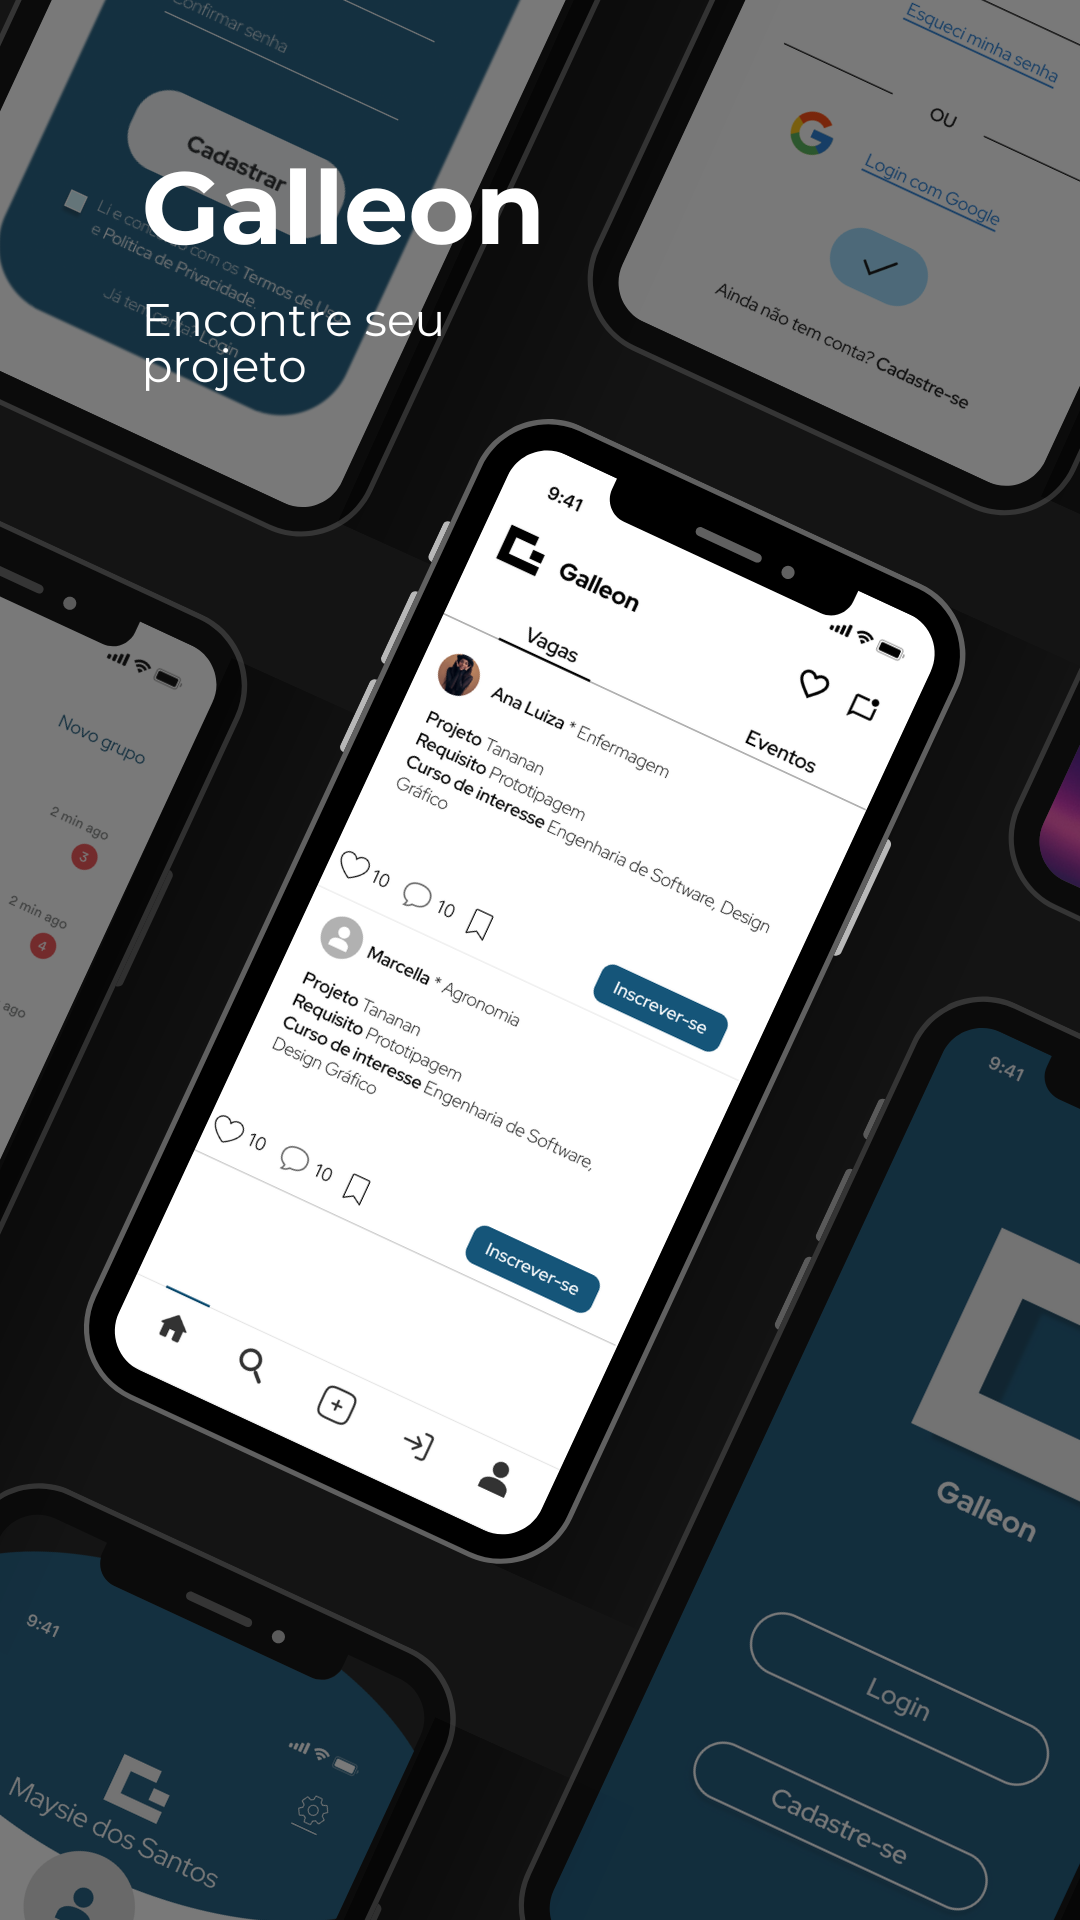
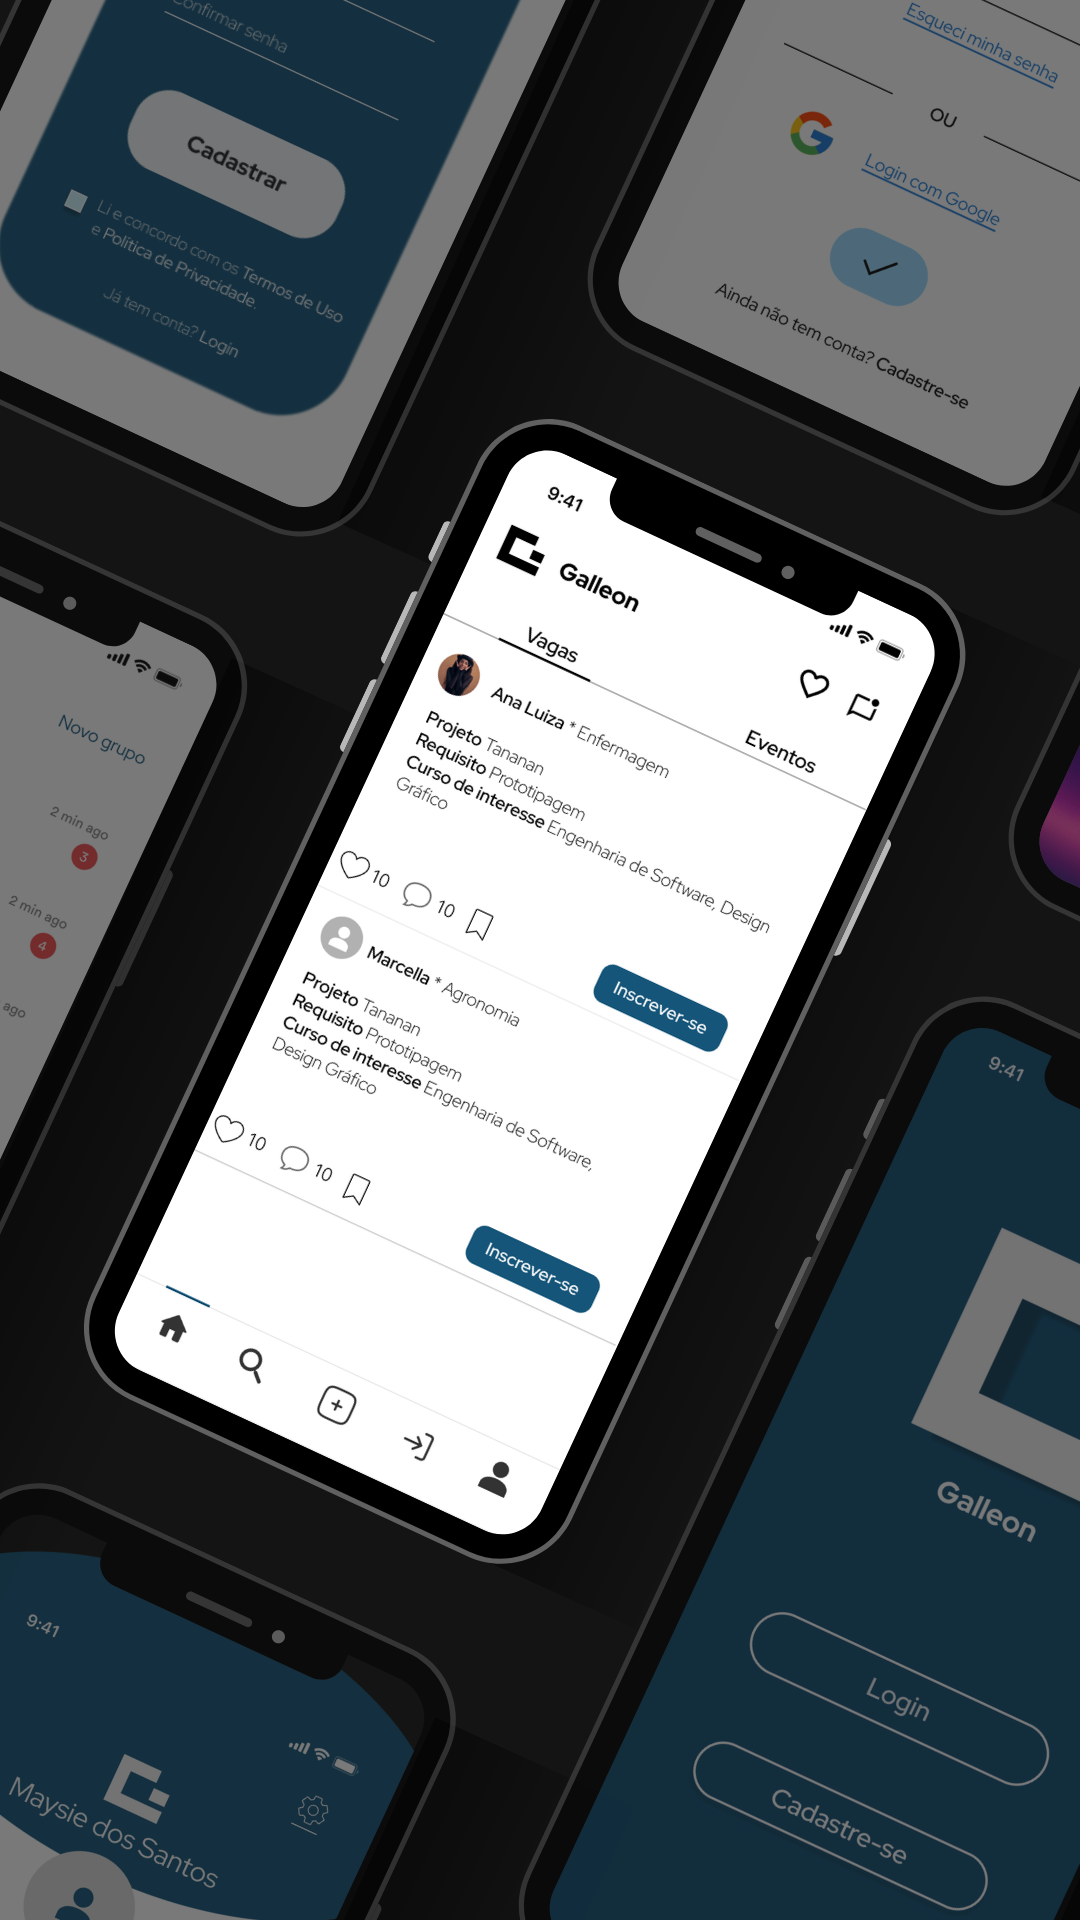
solution-component

Changed region(s): [[0.1222, 0.0625, 0.5194, 0.125], [0.1222, 0.1562, 0.3972, 0.2188]]

diff --git a/src/pages/Home.tsx b/src/pages/Home.tsx
@@ -1,9 +1,12 @@
 import Logo from "../assets/darklogo.svg";
 import Close from "../assets/Close.svg";
 import Menu from "../assets/Menu.svg";
+import App1 from "../assets/images/googleplay.png";
+import App2 from "../assets/images/app-store.png";
 import "../styles/header.css";
 import "../styles/utility.css";
-import { useState } from "react";
+import "../styles/section.css"
+import { useEffect, useState } from "react";
 import Button from "../components/Button";
 // import HeroRectangleOne from "../assets/images/rectangleOne.png";
 // import HeroRectangleTwo from "../assets/images/rectangleTwo.png";
@@ -13,6 +16,15 @@ import "../styles/hero.css";
 
 export default function Home() {
     const [showMobileMenu, setShowMobileMenu] = useState(false);
+
+    useEffect(() => {
+        if (showMobileMenu) {
+            document.documentElement.style.overflowY = "hidden";
+        } else {
+            document.documentElement.style.overflowY = "auto";
+        }
+    }, [showMobileMenu]);
+
     return (
         <>
             <header className="container py-sm">
@@ -78,6 +90,7 @@ export default function Home() {
 
                 </nav>
             </header>
+
             <section id="hero">
                 {/* <span className="desktop-only">
                     <img src={HeroRectangleTwo} alt="Retangulo um tela inicial" />
@@ -95,15 +108,56 @@ export default function Home() {
                         </span>
                     </div>
                 </div>
-
-
             </section>
+
+            <div className="content-divider">
+                <svg height="100" width="1.5">
+                    <rect width="1.5" height="100" style={{ fill: "white" }} />
+                </svg>
+            </div>
 
             <section id="solutions">
-                 <span>
-                 <img src={Prototype} alt="imagem mostrando o protótipo escrito 'galleon /br encontre seu projeto'" />
+                <span>
+                    <img src={Prototype} alt="imagem mostrando o protótipo escrito 'galleon /br encontre seu projeto'" className="prototype-image" />
                 </span>
+                <div className="solution-content">
+                    <h2>Galleon</h2>
+                    <br></br>
+                    <h4>Conectando Alunos, Projetos e Oportunidades</h4>
+                    <br></br>
+                    <p>A melhor comunidade focada em projetos para sua universidade.
+                        Encontre uma equipe ou junte-se a uma, e trabalhem juntos para um futuro melhor.</p>
+                    <p className="bold-p">Seja parte da mudança. Conecte-se. Colabore. Transforme.</p>
+                    <br></br>
+
+                    <div className="small-images">
+                        <img src={App1} alt="Imagem pequena 1" className="small-image" />
+                        <img src={App2} alt="Imagem pequena 2" className="small-image" />
+                    </div>
+                </div>
             </section>
+
+            <section className="aligned-text">
+                <div>
+                    <h3>Encontre Projetos e Equipes</h3>
+                    <p>Pesquise por projetos acadêmicos ou extracurriculares que precisam de novas ideias e contribuições.
+                        <br></br>
+                        Conecte-se com equipes que buscam por integrantes com suas habilidades.</p>
+
+                    <br></br>
+                    <br></br>
+                    <h3>Divulgue Seus Projetos</h3>
+                    <p>Crie visibilidade para seus projetos e recrute colegas com o mesmo interesse.</p>
+
+                    <br></br>
+                    <br></br>
+                    <h3>Networking Inteligente</h3>
+                    <p>Facilite conexões dentro e fora do seu curso, tornando a colaboração entre estudantes mais dinâmica.</p>
+                </div>
+            </section>
+
+
+
         </>
     )
 }

diff --git a/src/styles/section.css b/src/styles/section.css
@@ -1,0 +1,74 @@
+#solutions {
+    display: flex;
+    justify-content: center; /* Centraliza o conteúdo horizontalmente */
+    align-items: center; /* Alinha a imagem e o texto verticalmente */
+    gap: 50px; /* Reduz o espaço entre a imagem e o texto */
+    /*padding: 20px;*/
+    max-width: 1200px; /* Define uma largura máxima para limitar o conteúdo */
+    /*margin: 0%;  Centraliza o container na página */
+  }
+  
+  .prototype-image {
+    width: 100%; /* Reduz um pouco o tamanho da imagem para ajustar o layout */
+    border-radius: 10px; /* Borda arredondada */
+    height: auto; /* Mantém a propor'ção da imagem */
+    
+  }
+  
+  .solution-content {
+    max-width: 50%; /* Define a largura máxima da área de texto */
+  }
+  
+  .solution-content h2, .solution-content h3, .solution-content p {
+    margin: 0 0 10px 0; /* Espaçamento adequado entre os textos */
+  }
+  
+  .solution-content p {
+    line-height: 1.5; /* Melhor legibilidade para o parágrafo */
+  }
+  
+
+  .solutions-title {
+    text-align: center;
+    font-weight: 300; /* Define o peso da fonte como light */
+    margin: 20px 0; /* Espaçamento entre o título e os elementos */
+    font-size: 2rem; /* Ajuste do tamanho da fonte */
+  }
+  
+  .small-images {
+    display: flex;
+    gap: 10px; /* Espaço entre as imagens pequenas */
+    margin-top: 20px; /* Espaço acima das imagens pequenas */
+  }
+  
+  .small-image {
+    width: 25%; /* Ajuste o tamanho das imagens pequenas */
+    height: auto; /* Mantém a proporção das imagens */
+    border-radius: 5px; /* Adiciona bordas arredondadas se desejado */
+    object-fit: cover; /* Garante que a imagem cubra o espaço sem distorcer */
+  }
+  
+  p {
+    font-weight: 250;
+  }
+
+  .aligned-text {
+    text-align: center; /* Alinha o texto à direita */
+    margin-top: 80px; /* Adiciona um espaço acima do novo texto */
+    font-size: 0.8rem; /* Ajuste o tamanho da fonte conforme necessário */
+    font-weight: 400; /* Peso da fonte normal */
+    line-height: 1.5rem;
+    
+  }
+
+  h3 {
+    font-size: large;
+    color: var(--primary-color);
+  }
+
+  .content-divider {
+    display: flex;
+    justify-content: center;
+    margin: -10px 0 20px 0; /* Reduz a margem superior para mover o SVG mais para cima */
+  }
+  

diff --git a/index.html b/index.html
@@ -4,8 +4,8 @@
     <meta charset="UTF-8" />
     <link rel="preconnect" href="https://fonts.googleapis.com">
     <link rel="preconnect" href="https://fonts.gstatic.com" crossorigin>
-    <link href="https://fonts.googleapis.com/css2?family=Montserrat:ital,wght@0,100..900;1,100..900&display=swap" rel="stylesheet">
-    <link rel="icon" type="image/svg+xml" href="/public/lightlogo.svg" />
+    <link href="https://fonts.googleapis.com/css2?family=Poppins:ital,wght@0,100;0,200;0,300;0,400;0,500;0,600;0,700;0,800;0,900;1,100;1,200;1,300;1,400;1,500;1,600;1,700;1,800;1,900&display=swap" rel="stylesheet">
+    <link rel="icon" type="image/svg+xml" href="/public/barco.svg" />
     <meta name="viewport" content="width=device-width, initial-scale=1.0" />
     <title>Galleon</title>
   </head>

diff --git a/src/styles/index.css b/src/styles/index.css
@@ -25,7 +25,7 @@
   --primary-color: #ffa500;
   --secondary-color: #B2E3FF;
 
-  --ff-sans: "Montserrat", system-ui, sans-serif;
+  --ff-sans: "Poppins", system-ui, sans-serif;
   --fw-base: 400;
   --fw-md: 500;
   --fw-bold: 800;
@@ -66,7 +66,7 @@ body {
 h1, h2, h3 {
   line-height: 1.2;
   color: var(--text-color);
-  font-weight: var(--fw-bold);
+  font-weight: 600;
   letter-spacing: -0.04em;
 }
 
@@ -80,6 +80,12 @@ h2 {
 
 h3 {
   font-size: var(--fs-lg);
+}
+
+h4 {
+  font-weight: var(--fw-md);
+  font-size: var(--fs-lg);
+
 }
 
 /*Estilos de links*/
@@ -122,5 +128,3 @@ ul {
       --pg-lg: 2rem;
   }
 }
-
-

diff --git a/src/styles/hero.css b/src/styles/hero.css
@@ -3,6 +3,7 @@
     border-top: 0.125rem solid #e4e4e4;
     height: 90vh;
     display: flex;
+    margin-bottom: 0%;
 }
 
 #hero > img {
@@ -13,7 +14,7 @@
 }
 
 #hero p {
-    color: var(--second-text-color);
+    color: var(--text-color);
   }
 
 
@@ -66,7 +67,7 @@
         
         .content p:first-of-type {
             color: var(--primary-color);
-            font-weight: var(--fw-bold);
+            font-weight: var(--fw-base);
         }
     }
 }        

diff --git a/src/styles/header.css b/src/styles/header.css
@@ -1,4 +1,8 @@
 /* funcionamento da tag a*/
+
+a {
+  font-weight: 500;
+}
 .reverse-color {
     color: var(--primary-color);
   }
